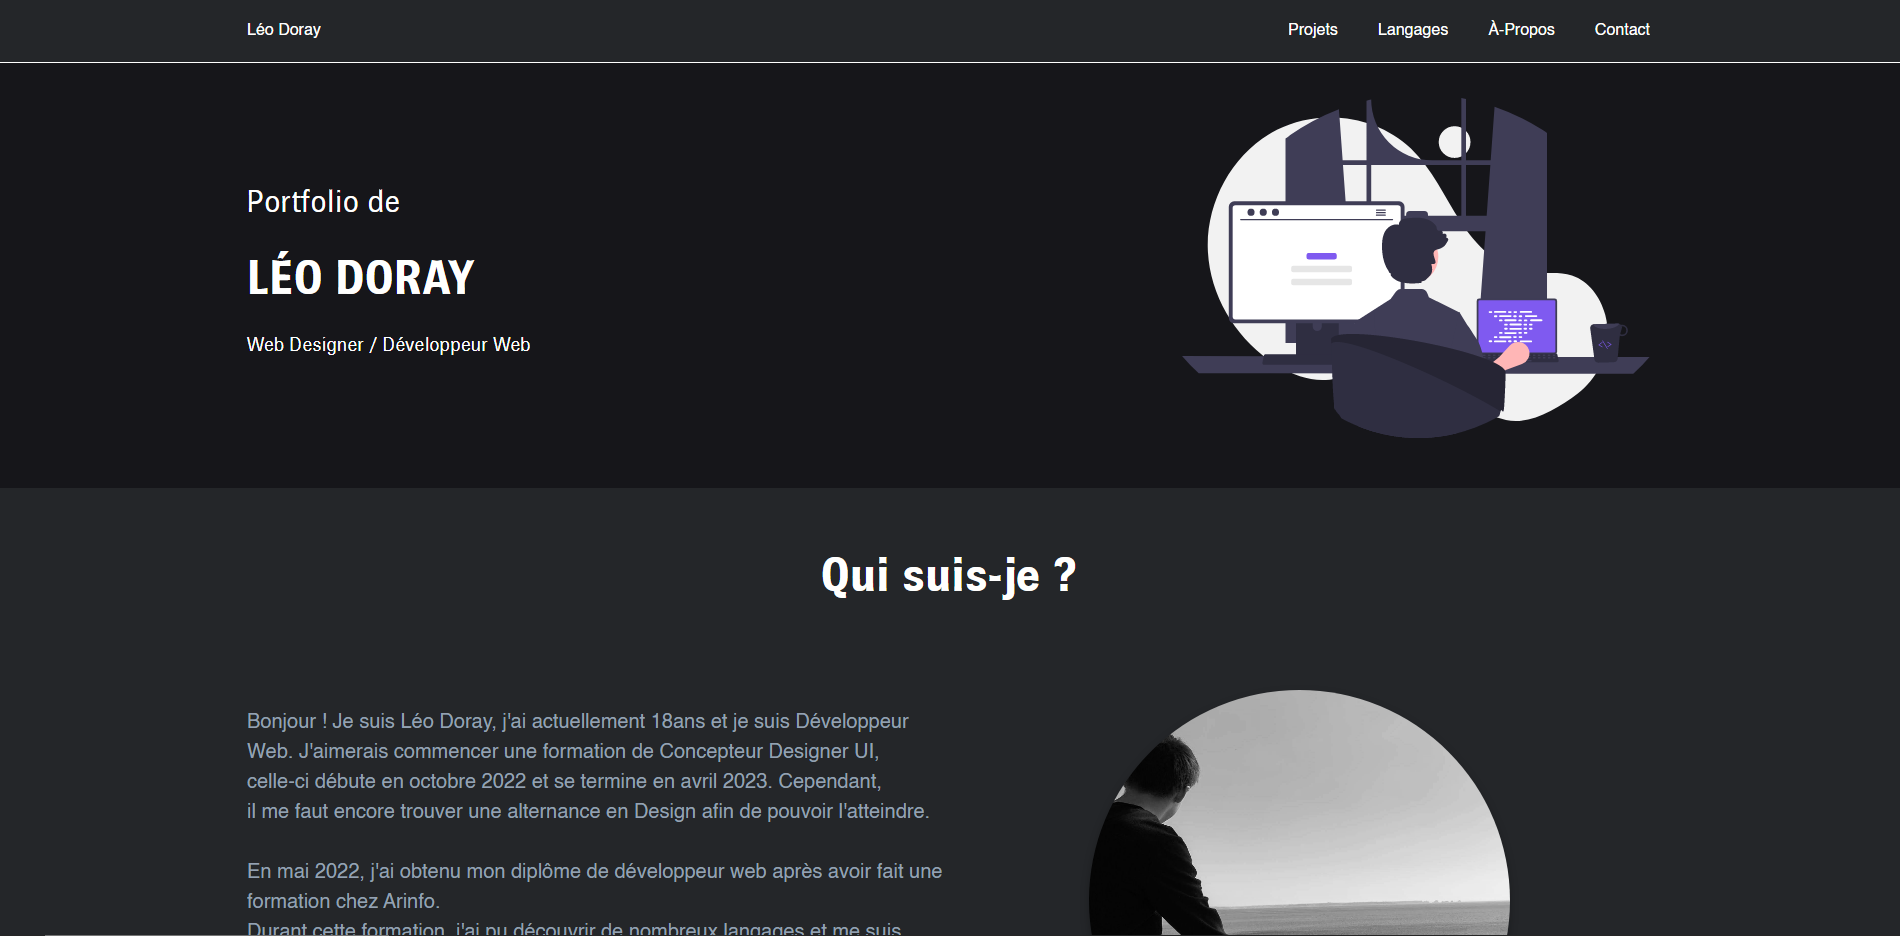
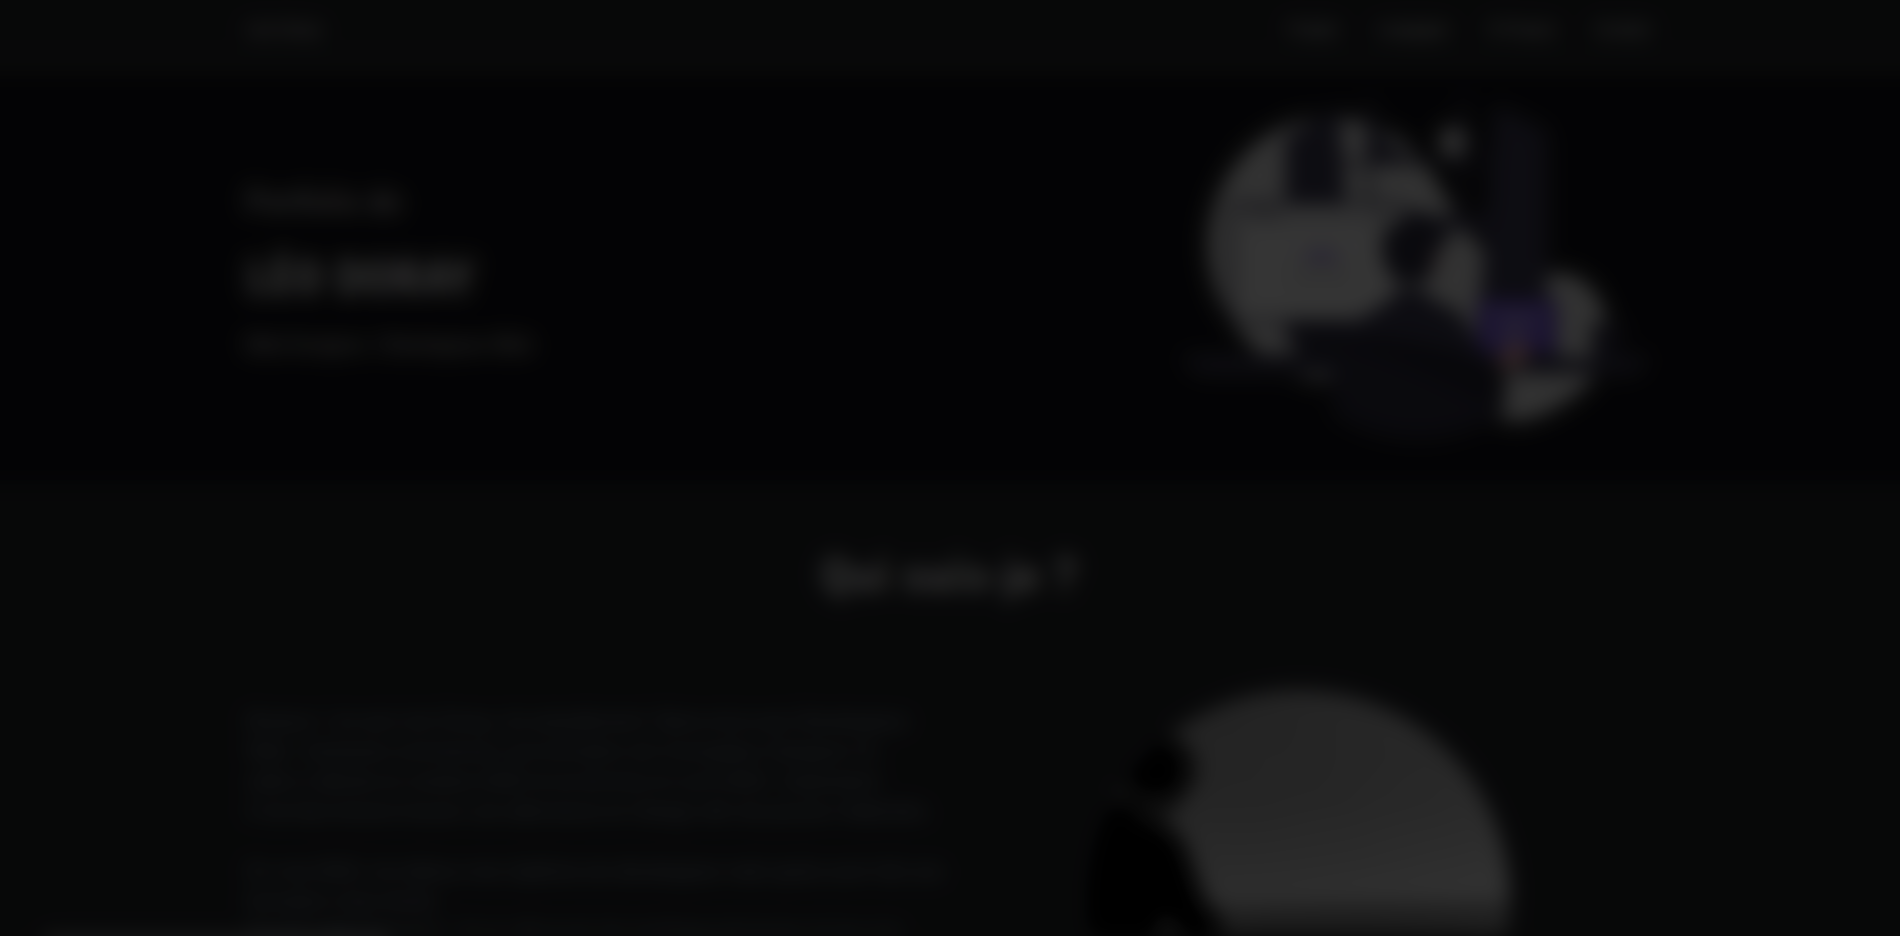
Correction: Header - Presentation - Projet -- Ajout: +1 Maquette

diff --git a/src/components/projet/Projet.js b/src/components/projet/Projet.js
@@ -5,11 +5,11 @@ const Projet = () => {
 
     return (
         <div className='bg-primary'>
-            <div className="container px-5 pt-[50px] pb-[200px]  flex-col justify-center">
+            <div className="container px-5 pt-[50px] pb-[200px] flex-col justify-center">
                 <div data-aos="fade-up" data-aos-duration="1200" className="pt-[100px] flex justify-center text-5xl text-center text-headline font-Brown pb-[80px]">Mes projets</div>
                 <div className="grid gap-y-32 justify-center">
-                    <div data-aos="fade-up" data-aos-duration="1200" className="bg-projet-1 bg-center bg-cover grid lg:grid-cols-2 place-items-center lg:bg-none">
-                        <div className="bg-primary/75 lg:bg-primary/0 p-[15px] grid gap-y-3 content-center lg:mr-[-100px] z-10">
+                    <div data-aos="fade-up" data-aos-duration="1200" className="bg-projet-1 rounded-xl bg-center bg-cover grid lg:grid-cols-2 place-items-center lg:bg-none">
+                        <div className="p-[15px] lg:pl-[0px] grid gap-y-3 content-center lg:mr-[-100px] z-10">
                             <div className="text-xs text-tertiary font-Raleway font-medium">
                                 <span className="pr-[5px]">2022</span>
                                 <span className="pr-[5px]">-</span>
@@ -36,13 +36,13 @@ const Projet = () => {
                             </a>
                         </div>
                     </div>
-                    <div data-aos="fade-up" data-aos-duration="1200" className="bg-projet-2 bg-center bg-cover grid lg:grid-cols-2 place-items-center lg:bg-none">
+                    <div data-aos="fade-up" data-aos-duration="1200" className="bg-projet-2 rounded-xl bg-center bg-cover grid lg:grid-cols-2 place-items-center lg:bg-none">
                         <div className="drop-shadow-xs hidden lg:block">
                             <a href='https://jdm.boutique/' target="_blank" rel="noreferrer">
                                 <video className="sameImg" src={require(`../../assets/image/projet/jdm.mp4`)} autoPlay loop muted ></video>
                             </a>
                         </div>
-                        <div className="bg-primary/75 lg:bg-primary/0 lg:text-right p-[15px] grid gap-y-3 content-center lg:ml-[-100px] z-10">
+                        <div className="lg:text-right p-[15px] lg:pr-[0px] grid gap-y-3 content-center lg:ml-[-100px] z-10">
                             <div className="text-xs text-tertiary font-Raleway font-medium">
                                 <span className="pr-[5px]">2022</span>
                                 <span className="pr-[5px]">-</span>
@@ -53,7 +53,7 @@ const Projet = () => {
                                 <p>
                                     Durant ma formation, j'ai dû suivre un projet : j'ai choisi de créer Jdm.Boutique.
                                     J'ai eu l'idée d'un site de vente de véhicules entre particuliers.
-                                    On peut donc créer un compte, poster des annonces, des commentaires et contacter un adminstateur.
+                                    On peut donc créer un compte, poster des annonces, des commentaires et contacter un administateur.
                                 </p>
                             </div>
                             <div className="text-tertiary">

diff --git a/src/components/model/Model.js b/src/components/model/Model.js
@@ -2,21 +2,34 @@ import React from "react";
 
 const Model = () => {
     return (
-        <div className="container px-5 py-[50px] bg-secondary flex-col justify-center">
-            <h1 data-aos="fade-up" data-aos-duration="1200" className="pt-[50px] flex justify-center text-5xl text-center text-headline font-Brown pb-[80px]">Quelques maquettes</h1>
-            <div className="flex justify-center" data-aos="fade-left" data-aos-duration="1200">
-                <div className="space-y-5">
-                    <h2 className="text-4xl text-center text-headline font-BrownLight">Portfolio</h2>
-                    <div className="sameDiv">
+        <div className="container px-5 py-[50px] bg-secondary flex-col">
+            <h1 data-aos="fade-up" data-aos-duration="1200" className="pt-[50px] text-5xl text-center text-headline font-Brown pb-[80px]">Quelques maquettes</h1>
+            <div className="flex lg:flex-row flex-col justify-center lg:space-x-10">
+                <div data-aos="fade-left" data-aos-duration="1200">
+                    <div className="lg:w-[400px] flex flex-col space-y-4">
+                        <h2 className="text-4xl text-start text-headline font-BrownLight">Portfolio</h2>
                         <a target="_blank" rel="noreferrer" href="https://www.figma.com/proto/38j63BOeIGft7vTiE8WCg9/Portfolio?page-id=0%3A1&node-id=204%3A107&scaling=min-zoom&starting-point-node-id=2%3A3">
                             <img alt="Maquette Portfolio" className="drop-shadow-xs hover:border-tertiary ease-out duration-300 sameModel border border-white" src={require(`../../assets/image/model/maquette-portfolio.png`)}></img>
                         </a>
+                        <p className="space-x-1 text-end text-headline ">
+                            <span>Août</span>
+                            <span>-</span>
+                            <span>2022</span>
+                        </p>
                     </div>
-                    <p className="space-x-1 text-end text-headline ">
-                        <span>Août</span>
-                        <span>-</span>
-                        <span>2022</span>
-                    </p>
+                </div>
+                <div data-aos="fade-left" data-aos-duration="1500">
+                    <div className="lg:w-[400px] flex flex-col space-y-4">
+                        <h2 className="text-4xl text-start text-headline font-BrownLight">JDM Boutique</h2>
+                        <a target="_blank" rel="noreferrer" href="https://www.figma.com/proto/75UujpltUnhTYCf8kAr0Cy/Jdm.Boutique?page-id=0%3A1&node-id=202%3A74&hide-ui=1">
+                            <img alt="Maquette Jdm Boutique" className="drop-shadow-xs hover:border-tertiary ease-out duration-300 sameModel border border-white" src={require(`../../assets/image/model/screen-jdm.png`)}></img>
+                        </a>
+                        <p className="space-x-1 text-end text-headline ">
+                            <span>Novembre</span>
+                            <span>-</span>
+                            <span>2022</span>
+                        </p>
+                    </div>
                 </div>
             </div>
         </div>

diff --git a/src/components/presentation/Pres.js b/src/components/presentation/Pres.js
@@ -7,14 +7,14 @@ const Presentation = () => {
             <div className="grid md:grid-cols-2 gap-y-8 grid-row-2 md:justify-items-end justify-items-center items-center">
                 <div className="text-xl text-text font-Helvetica">
                     <p data-aos="fade-up" data-aos-duration="1000">
-                        Bonjour ! Je suis Léo Doray, j'ai actuellement 18ans et je suis Développeur Web.
-                        J'aimerais commencer une formation de <a className="text-tertiary decoration-0 hover:underline" href="https://arinfo.fr/formations/metiers-du-web/concepteur-designer-ui-infographie-numerique-photoshop-illustrator-cms-wordpress">Concepteur Designer UI</a>,
-                        celle-ci débute en octobre 2022 et se termine en avril 2023. Cependant,
-                        il me faut encore trouver une alternance en Design afin de pouvoir l'atteindre.<br></br>
+                        Bonjour ! Je suis Léo Doray, j'ai 18ans et je suis Web Développeur et Designer.
+                        J'ai commencer une formation de <a className="text-tertiary decoration-0 hover:underline" href="https://arinfo.fr/formations/metiers-du-web/concepteur-designer-ui-infographie-numerique-photoshop-illustrator-cms-wordpress">Concepteur Designer UI </a>en alternance,
+                        celle-ci à débuté en octobre 2022 et se termine en octobre 2023. Cependant,
+                        il me faut encore trouver une alternance en Design  dans un délai de 3 mois à partir d'octobre.
                     </p>
                     <p data-aos="fade-up" data-aos-duration="1300" className="py-[30px]">
-                        En mai 2022, j'ai obtenu mon diplôme de <a className="text-tertiary decoration-0 hover:underline" href="https://arinfo.fr/formations/metiers-du-web/formation-developpeur-web">Développeur Web</a> après avoir fait une formation chez <a className="text-tertiary decoration-0 hover:underline" href="https://www.arinfo.fr/">Arinfo</a>.<br></br>
-                        Durant cette formation, j'ai pu découvrir de nombreux langages et me suis rendu compte que le Front End m'intéressait d'avantage,<br></br>
+                        En mai 2022, j'ai obtenu mon diplôme de <a className="text-tertiary decoration-0 hover:underline" href="https://arinfo.fr/formations/metiers-du-web/formation-developpeur-web">Développeur Web</a> après avoir fait une formation chez <a className="text-tertiary decoration-0 hover:underline" href="https://www.arinfo.fr/">Arinfo</a>.
+                        Durant cette formation, j'ai pu découvrir de nombreux langages et me suis rendu compte que le Front End m'intéressait d'avantage,
                         j'ai donc décidé de me lancer dans l'apprentissage du design.
                     </p>
                     <p data-aos="fade-up" data-aos-duration="1600">

diff --git a/src/components/header/Header-home.js b/src/components/header/Header-home.js
@@ -2,11 +2,10 @@
 
 const Header = () => {
     return (
-        <header className="bg-fond bg-no-repeat bg-center  bg-cover">
+        <header className="bg-fond bg-no-repeat bg-center bg-cover">
             <div className="container px-5 pb-[50px] pt-[100px] flex flex-col md:flex-row justify-between">
-                {/* <img data-aos="fade-up" data-aos-duration="1600" className="sm:block hidden" src={require(`../../assets/image/header/text_and_perso.png`)} alt="Text And Perso PS" /> */}
-                <img data-aos="fade-up" data-aos-duration="1600" className="" src={require(`../../assets/image/header/text.png`)} alt="Perso PS" />
-                <img data-aos="fade-up" data-aos-duration="1600" className="" src={require(`../../assets/image/header/perso.png`)} alt="Text PS" />
+                <img data-aos="fade-up" data-aos-duration="1600" className="" src={require(`../../assets/image/header/text-233.png`)} alt="Perso PS" />
+                <img data-aos="fade-up" data-aos-duration="1600" className="hidden sm:block" src={require(`../../assets/image/header/perso-311-233.png`)} alt="Text PS" />
             </div>
         </header>
     );

diff --git a/tailwind.config.js b/tailwind.config.js
@@ -33,7 +33,7 @@ module.exports = {
         'fond' : "url('/src/assets/image/header/FOND.png')",
         'header' : "url('/src/assets/image/header/portfolio_v2.jpg')",
         'projet-1' : "url('/src/assets/image/projet/portfolio.png')",
-        "projet-2" : "url('/src/assets/image/projet/jdm.png')",
+        "projet-2" : "url('/src/assets/image/projet/jdm-flou-noir.png')",
       },
       height: {
         '104': "409px"

diff --git a/src/styles/components/model/model.scss b/src/styles/components/model/model.scss
@@ -1,11 +1,6 @@
 .sameModel {
     width: 100%;
-    height: 100%;
+    height: 250px;
     border-radius: 10px;
     object-fit: cover;
-}
-
-.sameDiv {
-    width: 250px;
-    height: 500px;
 }
